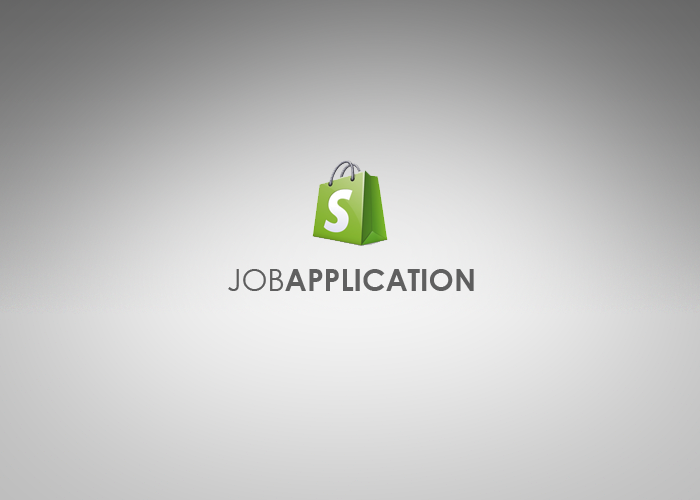
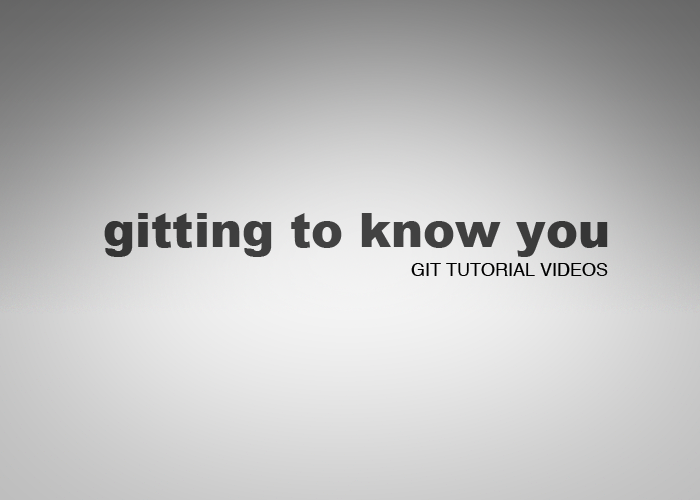
Updated Gitting to Know You Videos and removed Job Application.

Changed region(s): [[0.15, 0.3, 0.87, 0.6]]

diff --git a/config/routes.rb b/config/routes.rb
@@ -21,7 +21,7 @@ CaseyLiResume::Application.routes.draw do
   
   post "pages/contact"
   
-  root :to => 'pages#jobapplication'
+  root :to => 'pages#home'
   
   match '/skills', :to => "pages#skills"
   match '/work_experience', :to => "pages#work_experience"
